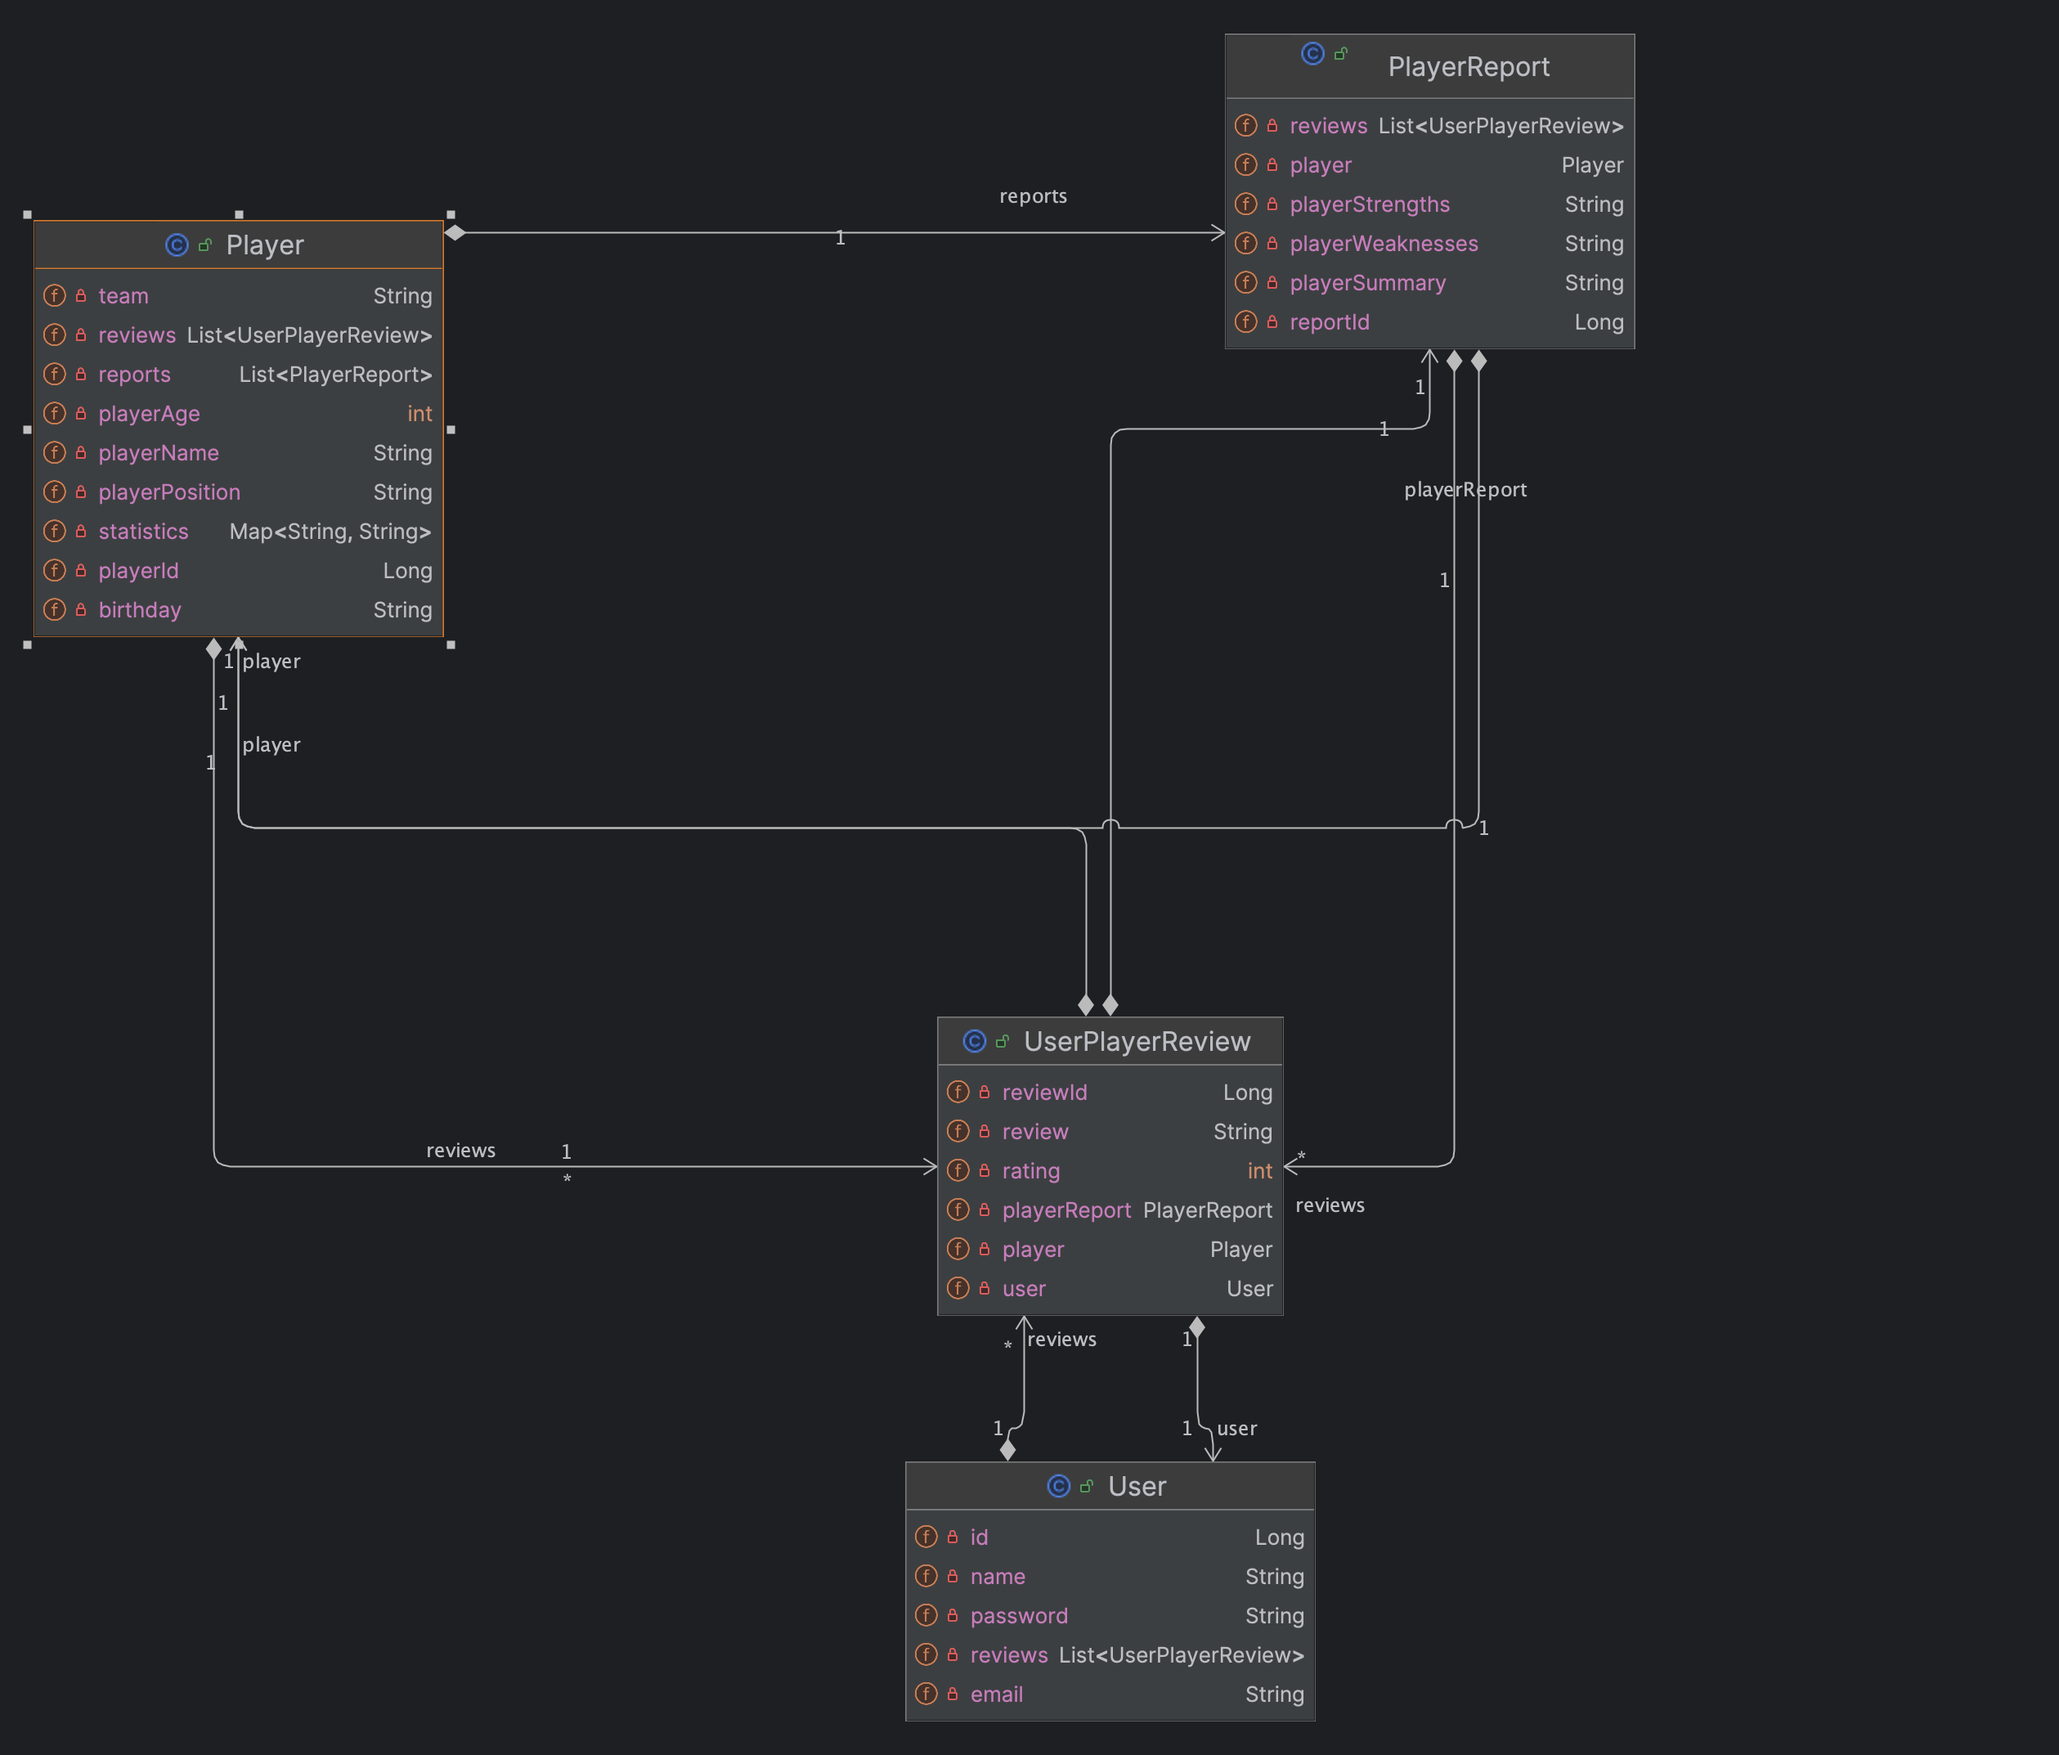
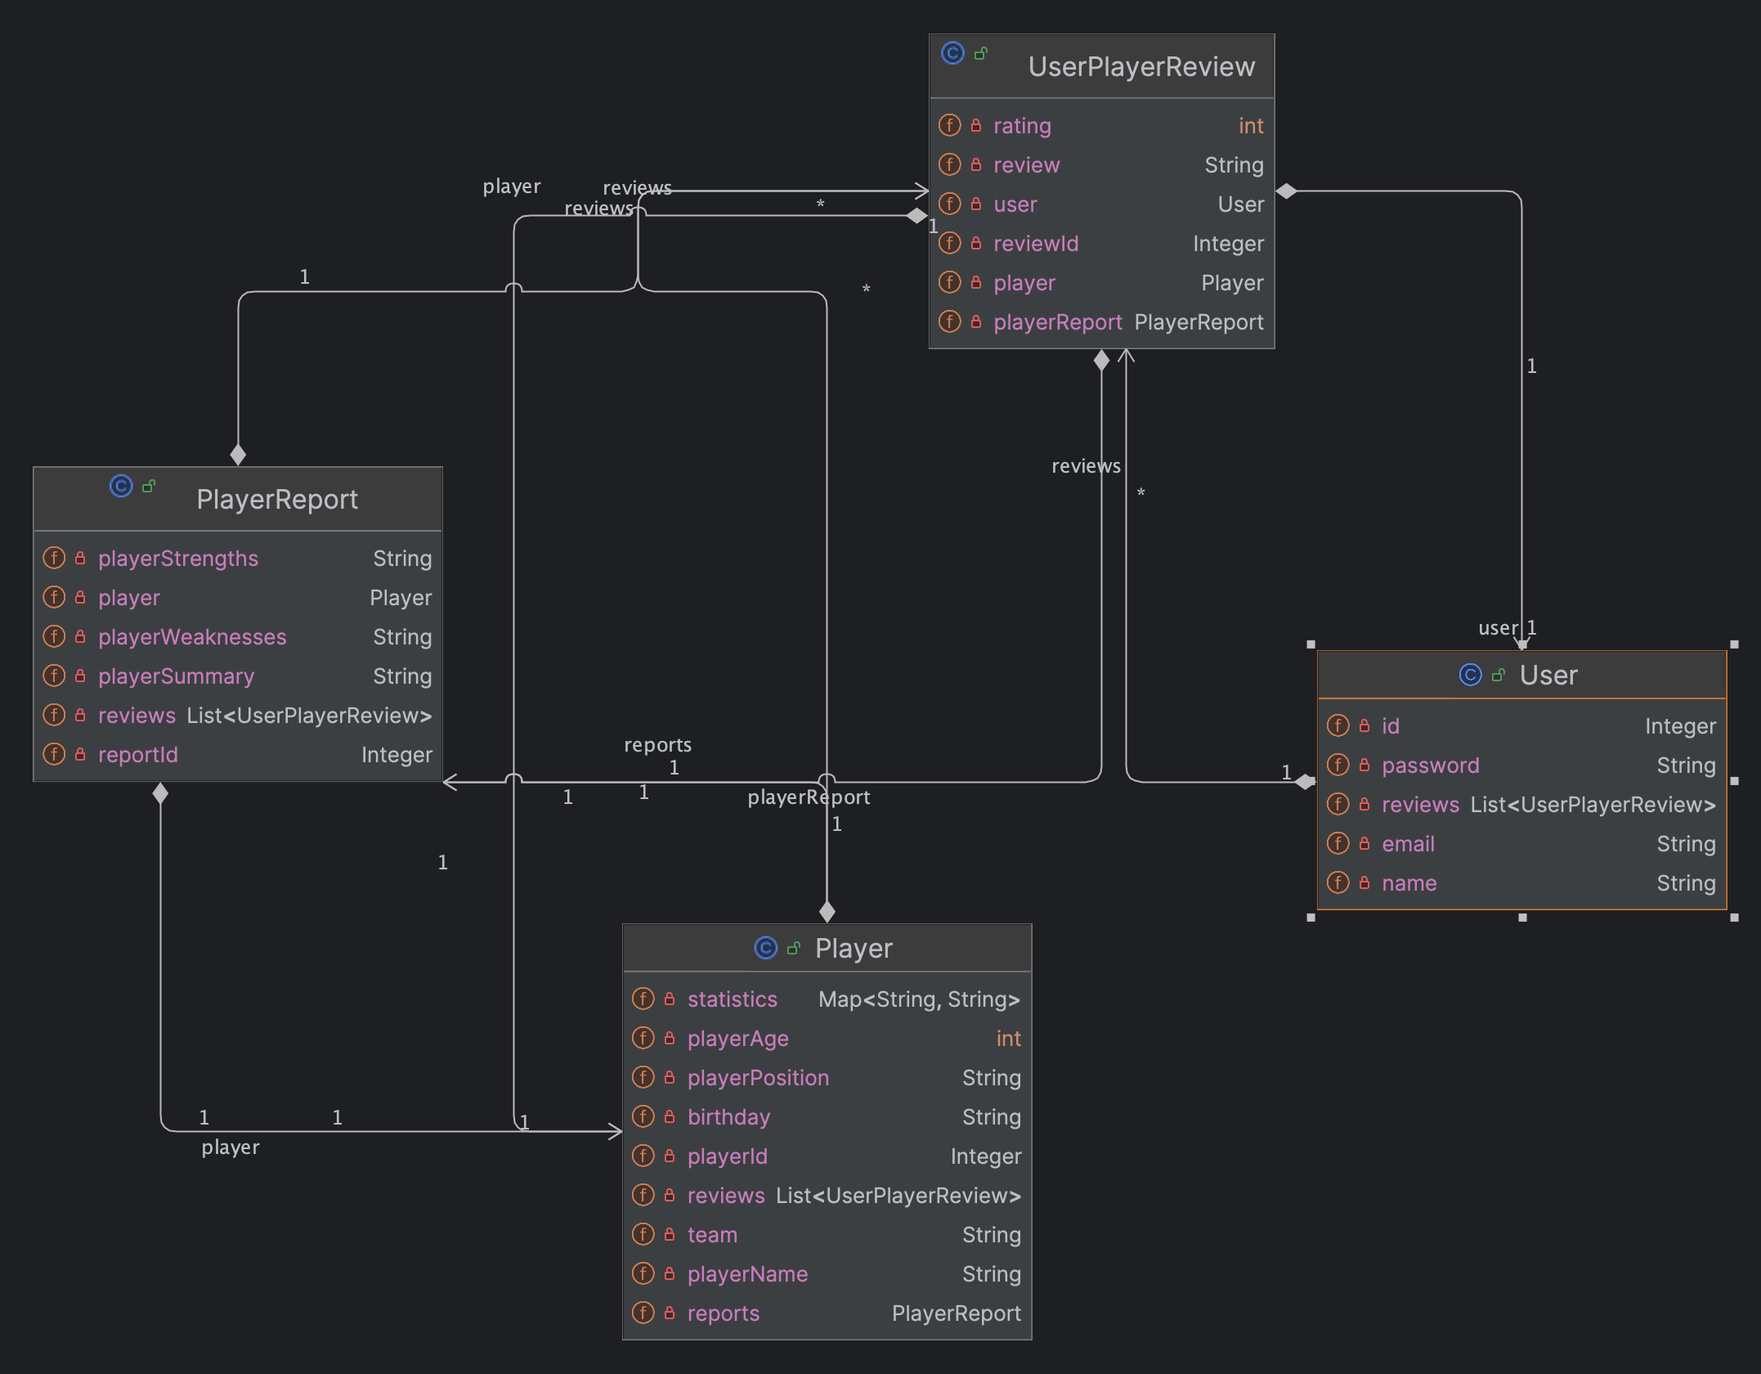
Updated ADR files and main README

diff --git a/README.md b/README.md
@@ -1,11 +1,11 @@
 # Football Oracle: Your AI-Powered Scouting Companion
 
-Football Oracle is a cutting-edge web application that transforms the way football enthusiasts and professionals gather player insights. By leveraging advanced AI and natural language processing, Football Oracle provides comprehensive, data-driven football player reports on demand.  Whether you're a football fan, a fantasy football manager, or a just a freak loving this game as I do, Football Oracle empowers you with the knowledge you need and elevate your understanding of this beautiful game.
+Football Oracle is a cutting-edge web application that transforms the way football enthusiasts and professionals gather player insights. By leveraging advanced AI and natural language processing, Football Oracle provides comprehensive, data-driven football player analytics on demand.  Whether you're a football fan, a fantasy football manager, or a just a freak loving this game as I do, Football Oracle empowers you with the knowledge you need and elevate your understanding of this beautiful game.
 
 ## Key Features
 
 * Intuitive Player Search: Easily find detailed scouting reports on any football player, from rising stars to seasoned veterans.
-* AI-Generated Reports: Receive comprehensive player analyses, including strengths, weaknesses, and potential impact on the team.
+* AI-Generated Analytics: Receive comprehensive player analyses, including strengths, weaknesses, and potential impact on the team.
 * Personalized Ratings and Reviews: Share your own expert opinions by rating and commenting on reports, fostering a vibrant community of football enthusiasts.
 * Robust User Profiles: Manage your personal information, track your rating history, and update your reviews with ease.
 * Community Interaction: Explore the ratings and comments of other users to gain diverse perspectives and insights.
@@ -14,7 +14,7 @@ Football Oracle is a cutting-edge web application that transforms the way footba
 
 1. Login or Sign Up: Create a free account to access the full suite of Football Oracle features.
 2. Search for Players: Use the intuitive search bar to find the player you're interested in.
-3. Explore Scouting Reports: Dive into AI-generated reports that provide in-depth analysis of player attributes, statistics, and performance.
+3. Explore Scouting Reports: Dive into AI-generated analytics that provide in-depth analysis of player attributes, statistics, and performance.
 4. Rate and Review: Share your thoughts by rating reports and leaving comments, contributing to a growing knowledge base for the community.
 5. Connect with Others: Browse the profiles of other users to discover new players and learn from their insights.
 
@@ -36,20 +36,78 @@ Please see the [Entity Relationship Diagram](adr/ER_diagram.puml) for detailed i
 📂 sabit-shaiholla/football-oracle/ - central repository of the project
 ├── 📂 adr/ - store of architectural decision records (ADRs)
 ├── 📂 backend/ - backend of the project (Spring Boot)
-├── 📂 frontend/ - frontend of the project (HTML, CSS, JavaScript)
+│   ├── 📂 src/ - source folder of BE project
+│   │   ├── 📂 main/java/com.oracle.football - main package of the project
+│   │   │   ├── 📂 controller/ - controllers of the project
+│   │   │   ├── 📂 config/ - configurations of the project
+│   │   │   ├── 📂 dto/ - data transfer objects of the project
+│   │   │   ├── 📂 exception/ - exceptions of the project
+│   │   │   ├── 📂 jwt/ - JWT configurations of the project
+│   │   │   ├── 📂 security/ - security configurations of the project
+│   │   │   ├── 📂 model/ - models of the project
+│   │   │   ├── 📂 repository/ - repositories of the project
+│   │   │   ├── 📂 service/ - services of the project
+│   │   │   └── 📂 FootballApplication.java - entry point of the project
+│   │   ├── 📂 resources/ - resources folder of main package of BE project
+│   │   │   ├── 📂 application.yaml - configurations of the project
+│   │   │   └── 📂 db/migration - database migration scripts
+│   │   ├── 📂 test/java/com.oracle.football - test package of the project
+│   │   │   ├── 📂 Player/ - tests related to Player entity
+│   │   │   ├── 📂 User/ - tests related to User entity
+│   │   │   ├── 📂 PlayerReport/ - tests related to PlayerReport entity
+│   │   │   └── 📂 FootballApplicationTests.java - entry point of the tests
+│   └── 📂 pom.xml - dependencies of the project
+└── 📂 frontend/ - frontend of the project (HTML, CSS, JavaScript)
+    └── 📂 football-oracle-fe/ - frontend of the project on React
+        ├── 📂 src/ - source folder of FE project
+        │   ├── 📂 components/ - components of the project
+        │   ├── 📂 services/ - services of the project
+        │   ├── 📂 assets/ - assets of the project
+        │   ├── 📂 Home.jsx - Home page component of the project
+        │   ├── 📂 main.jsx - entry point of the project
+        │   └── 📂 User.jsx - User page component of the project
+        ├── 📂 package.json - dependencies of the project
+        └── 📂 README.md - readme for FE of the project
+    
 ```
+
+## Example view of the project
+![Example view of the project](.github/images/site_example.png)
+
+## Architecture
+
+1. User Interaction
+* Users interact with the Front-End application.
+* Users can search for players, view reports, and add reviews
+2. Front-End Application
+* The React app sends requests to the Back-End using RESTful APIs.
+* It handles routing, state management, and UI rendering. 
+3. Back-End Application
+* The Spring Boot application processes requests from the Front-End.
+* It handles business logic, data validation, and communication with the database.
+* Controllers manage endpoints for user authentication, player data retrieval, and reviews.
+* Services contain the business logic.
+* Repositories interact with the PostgreSQL database.
+4. Data Fetching Logic
+* Database Check: The Back-End checks the PostgreSQL database for player data.
+* Fetch from WebPage: If data is not present, it fetches data from the WebPage (FBREF.com).
+* Fetch from Gemini Pro API: After getting data from the WebPage, it requests player reports via external API. 
+* Save to Database: The fetched data and reports are saved in the database for future queries.
+5. External API Interaction
+* The Back-End interacts with Gemini Pro API to fetch and process player data when not found in the database.
 
 ## Technology Stack
 
 * Front-End: HTML, CSS, JavaScript
 * Back-End: Spring Boot (Java)
-* Database: PostgreSQL, TBD
-* External API: Open AI API or Gemini Pro API (TBD)
+* Database: PostgreSQL
+* External API: Gemini Pro API (Google)
 
 ## Contributing
 I welcome contributions from the community! If you're a football enthusiast, data scientist, or developer, there are plenty of ways to get involved.
 
 ## Get Started
 
-Ready to elevate your football knowledge? Visit Football Oracle today and experience the future of player scouting.
+Ready to elevate your football knowledge? Visit Football Oracle today and experience the future of football analytics.
 [Link to deployed app - TBD]
+

diff --git a/adr/use_cases.md b/adr/use_cases.md
@@ -16,18 +16,18 @@
   1. User enters a player’s name in the search bar.
   2. System displays a list of players matching the search criteria.
 
-### 3. View Scouting Report
+### 3. View Player Analytics Report
 * Actors: Registered User, Guest
 * Description: Users view AI-generated reports for a selected player.
 * Steps:
   1. User selects a player from the search results.
-  2. System displays the scouting report for the selected player.
+  2. System displays the analytics report for the selected player.
 
-### 4. Rate and Review Scouting Report
+### 4. Rate and Review Player Analytics
 * Actors: Registered User
 * Description: Registered users rate and review scouting reports.
 * Steps:
-  1. User views a scouting report.
+  1. User views a player analytics report.
   2. User submits a rating and/or review.
   3. System updates the report with the user’s feedback.
   
@@ -63,8 +63,8 @@ package "Football Oracle System" {
     usecase "Enter player’s name in search bar" as UC5
     usecase "Display list of players matching search criteria" as UC6
     usecase "Select player from search results" as UC7
-    usecase "Display scouting report for selected player" as UC8
-    usecase "View scouting report" as UC9
+    usecase "Display analytics report for selected player" as UC8
+    usecase "View player analytics report" as UC9
     usecase "Submit rating and/or review" as UC10
     usecase "Update report with user’s feedback" as UC11
     usecase "Access profile management page" as UC12

diff --git a/adr/object_and_classes.md b/adr/object_and_classes.md
@@ -5,7 +5,7 @@ top to bottom direction
 skinparam linetype ortho
 
 class Player {
-  - playerId: Long
+  - playerId: Integer
   - playerName: String
   - playerPosition: String
   - playerAge: int
@@ -17,7 +17,7 @@ class Player {
 }
 
 class PlayerReport {
-  - reportId: Long
+  - reportId: Integer
   - playerStrengths: String
   - playerWeaknesses: String
   - playerSummary: String
@@ -26,7 +26,7 @@ class PlayerReport {
 }
 
 class User {
-  - id: Long
+  - id: Integer
   - name: String
   - password: String
   - email: String
@@ -34,7 +34,7 @@ class User {
 }
 
 class UserPlayerReview {
-  - reviewId: Long
+  - reviewId: Integer
   - review: String
   - rating: int
   - player: Player
